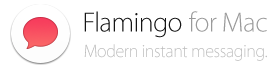
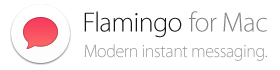
Wrapping up final changes and bugs
• Mavericks Header
• 32x32 (retina) favicon
• @1x darker app brand description
• @1x darker app features descriptions
• @1x seperator, also darker for older color profile screens
• @1x learn more button
• @1x darker footer brand description
• @1x darker footer profiles (names)

diff --git a/style.css b/style.css
@@ -98,7 +98,7 @@ body {
 	width: 200px;
 	margin-left: 25px;
 	font-size: 14px;
-	color: #9da1a7;
+	color: #8a8f96;
 	margin-top: 8px;
 	line-height: 1.4;
 }
@@ -142,7 +142,7 @@ body {
 	width: 200px;
 	margin-left: 377px;
 	font-size: 14px;
-	color: #9da1a7;
+	color: #8a8f96;
 	margin-top: 8px;
 		line-height: 1.4;
 }
@@ -189,7 +189,7 @@ body {
 	width: 200px;
 	margin-left: 732px;
 	font-size: 14px;
-	color: #9da1a7;
+	color: #8a8f96;
 	margin-top: 8px;
 	line-height: 1.4;
 }
@@ -232,7 +232,7 @@ body {
 	width: 200px;
 	margin-left: 25px;
 	font-size: 14px;
-	color: #9da1a7;
+	color: #8a8f96;
 	margin-top: 8px;
 	line-height: 1.4;
 }
@@ -277,7 +277,7 @@ body {
 	width: 200px;
 	margin-left: 377px;
 	font-size: 14px;
-	color: #9da1a7;
+	color: #8a8f96;
 	margin-top: 8px;
 	line-height: 1.4;
 }
@@ -323,7 +323,7 @@ body {
 	width: 200px;
 	margin-left: 732px;
 	font-size: 14px;
-	color: #9da1a7;
+	color: #8a8f96;
 	margin-top: 8px;
 	line-height: 1.4;
 }
@@ -374,7 +374,7 @@ body {
 	width: 640px;
 	margin-left: 170px;
 	font-size: 15px;
-	color: #9da1a7;
+	color: #8a8f96;
 	margin-top: 24px;
 	line-height: 1.5;
 }
@@ -410,7 +410,7 @@ body {
 	width: 640px;
 	margin-left: 167px;
 	font-size: 15px;
-	color: #9da1a7;
+	color: #8a8f96;
 	margin-top: 24px;
 	line-height: 1.5;
 }
@@ -446,7 +446,7 @@ body {
 	width: 640px;
 	margin-left: 167px;
 	font-size: 15px;
-	color: #9da1a7;
+	color: #8a8f96;
 	margin-top: 24px;
 	line-height: 1.5;
 }
@@ -483,7 +483,7 @@ body {
 	width: 640px;
 	margin-left: 167px;
 	font-size: 15px;
-	color: #9da1a7;
+	color: #8a8f96;
 	margin-top: 24px;
 	line-height: 1.5;
 	margin-bottom: 62px;
@@ -513,7 +513,7 @@ body {
 	width: 640px;
 	margin-left: 167px;
 	font-size: 15px;
-	color: #9da1a7;
+	color: #8a8f96;
 	margin-top: 24px;
 	line-height: 1.5;
 	margin-bottom: 62px;
@@ -543,7 +543,7 @@ body {
 	width: 640px;
 	margin-left: 167px;
 	font-size: 15px;
-	color: #9da1a7;
+	color: #8a8f96;
 	margin-top: 24px;
 	line-height: 1.5;
 	margin-bottom: 62px;
@@ -613,13 +613,13 @@ body {
 }
 
 #christian .about {
-	color: #bebebe;
+	color: #a3a3a3;
 	margin-left: 40px;
 	margin-top: 20px;
 }
 
 #christian .about a {
-	color: #767676;
+	color: #5a5a5a;
 	text-decoration: none;
 }
 
@@ -648,13 +648,13 @@ body {
 }
 
 #indragie .about {
-	color: #bebebe;
+	color: #a3a3a3;
 	margin-left: 40px;
 	margin-top: 20px;
 }
 
 #indragie .about a {
-	color: #767676;
+	color: #5a5a5a;
 	text-decoration: none;
 }
 
@@ -701,7 +701,7 @@ and (max-device-width : 568px) {
 }
 
 #christian .about {
-	color: #bebebe;
+	color: #a3a3a3;
 	margin-left: 40px;
 	margin-top: 20px;
 	font-size: 10px;
